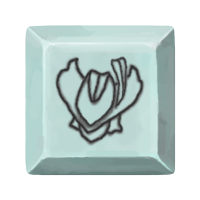
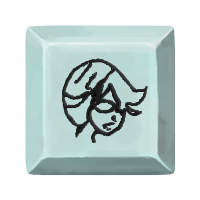
Char select button and final tweaks for first release

Changed region(s): [[0.27, 0.27, 0.75, 0.75]]

diff --git a/src/main/java/kitsunemod/character/KitsuneCharacter.java b/src/main/java/kitsunemod/character/KitsuneCharacter.java
@@ -2,6 +2,7 @@ package kitsunemod.character;
 
 import basemod.abstracts.CustomPlayer;
 import com.badlogic.gdx.graphics.Color;
+import com.badlogic.gdx.graphics.Texture;
 import com.badlogic.gdx.graphics.g2d.BitmapFont;
 import com.badlogic.gdx.math.MathUtils;
 import com.esotericsoftware.spine.AnimationState;
@@ -15,6 +16,7 @@ import com.megacrit.cardcrawl.core.EnergyManager;
 import com.megacrit.cardcrawl.core.Settings;
 import com.megacrit.cardcrawl.dungeons.AbstractDungeon;
 import com.megacrit.cardcrawl.helpers.FontHelper;
+import com.megacrit.cardcrawl.helpers.ImageMaster;
 import com.megacrit.cardcrawl.helpers.ScreenShake;
 import com.megacrit.cardcrawl.localization.CharacterStrings;
 import com.megacrit.cardcrawl.screens.CharSelectInfo;
@@ -303,6 +305,11 @@ public class KitsuneCharacter extends CustomPlayer {
     @Override
     public String getCustomModeCharacterButtonSoundKey() {
         return "ATTACK_FIRE";
+    }
+
+    @Override
+    public Texture getCustomModeCharacterButtonImage() {
+        return ImageMaster.loadImage("kitsunemod/images/charSelect/customMode_kitsune.png");
     }
 
     @Override

diff --git a/src/main/java/kitsunemod/actions/DrownInTheDeepAction.java b/src/main/java/kitsunemod/actions/DrownInTheDeepAction.java
@@ -4,6 +4,7 @@ import com.badlogic.gdx.Gdx;
 import com.megacrit.cardcrawl.actions.AbstractGameAction;
 import com.megacrit.cardcrawl.cards.DamageInfo;
 import com.megacrit.cardcrawl.characters.AbstractPlayer;
+import com.megacrit.cardcrawl.core.CardCrawlGame;
 import com.megacrit.cardcrawl.core.Settings;
 import com.megacrit.cardcrawl.dungeons.AbstractDungeon;
 import com.megacrit.cardcrawl.monsters.AbstractMonster;
@@ -46,6 +47,7 @@ public class DrownInTheDeepAction extends AbstractGameAction {
         if (duration == 0.1f) {
             if (effect > 0) {
                 target.damage(new DamageInfo(AbstractDungeon.player, damage, DamageInfo.DamageType.HP_LOSS));
+                CardCrawlGame.sound.play("POWER_POISON", 0.05F);
                 damage *= 2;
                 --effect;
             } else {
